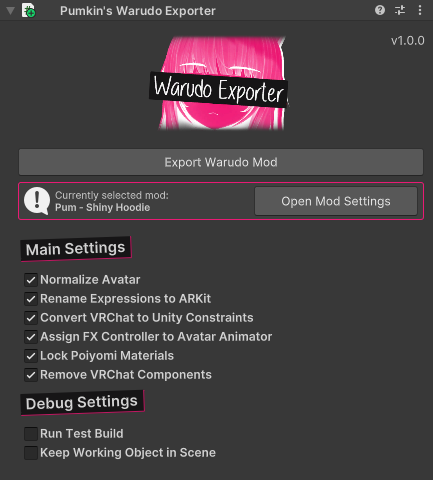
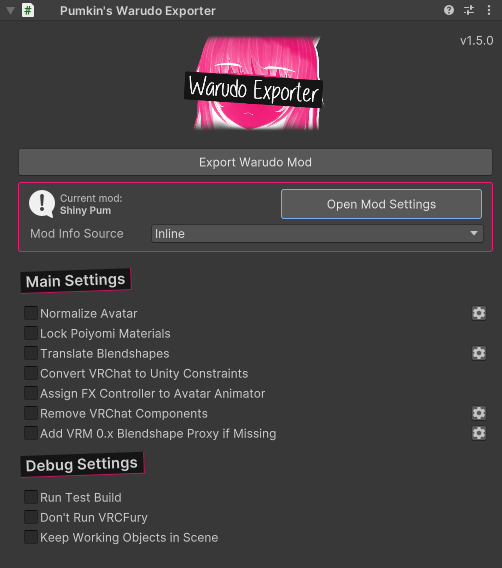
updated docs and new update notes

diff --git a/docs/warudo-exporter/features/translate-blendshapes.md b/docs/warudo-exporter/features/translate-blendshapes.md
@@ -4,11 +4,11 @@ description: "This feature translates, merges and splits blendshapes."
 sidebar_position: 3
 ---
 
-This feature is used to translates blendshapes on the avatar's meshes. This allows the exporter to rename, combine and split blendshapes on a mesh in order to make them work with blendshape names Warudo expects, for example [ARKit Blendshapes](https://arkit-face-blendshapes.com/) for face tracking.
+This feature is used to translates blendshapes on the avatar's meshes. This allows the exporter to rename, combine and split blendshapes on a mesh in order to make them work with the blendshape names Warudo expects, for example [ARKit Blendshapes](https://arkit-face-blendshapes.com/) for face tracking.
 
 This feature comes with the following option(s):
 
-## Preset
+### Preset
 This allows us to select a translation preset object for our avatar. Click the circle on the right to bring up the presets window and select one.
 
 ![translation preset options](img/translation-preset-options.png)
@@ -27,10 +27,10 @@ Next let's look at what everything does.
 
 ![translation preset ui](img/translation-preset-example.png)
 
-- `Target Blendshape`. This stores the name of the resulting blendshape.
-- `Source Blendshape(s)`. This is a list that stores the names of blendshapes to be merged into a new blendshape with the name from the `Target Blendshape` field.
-- `Weight`. This field serves as a "multiplier" for the blendshape data of each `Source Blendshape`. If the weight is 0, the source blendshape gets ignored. If the weight is 1, the source blendshape gets merged as is. If the weight is 2, the source blendshape is doubled in movement. If it's -1, it gets inverted and so on.
-- `Side`. This option allows us to split the `Source Blendshape` down the center of the bounds of the mesh. If `Left` is selected, only the vertices to the left of the center of the mesh will be included, if `Right` is selected only the right ones. If `Both` is selected, well.. the whole blendshape gets copied.
+- `Target Blendshape`: This stores the name of the resulting blendshape.
+- `Source Blendshape(s)`: This is a list that stores the names of blendshapes to be merged into a new blendshape with the name from the `Target Blendshape` field.
+- `Weight`: This field serves as a "multiplier" for the blendshape data of each `Source Blendshape`. If the weight is 0, the source blendshape gets ignored. If the weight is 1, the source blendshape gets merged as is, if the weight is 2, the source blendshape is doubled in movement, if it's -1, it gets inverted and so on.
+- `Side`: This option allows us to split the `Source Blendshape` down the center of the bounds of the mesh. If `Left` is selected, only the vertices to the left of the center of the mesh will be included, if `Right` is selected only the right ones. If `Both` is selected, well.. the whole blendshape gets copied.
 
 ## Build-in Presets
 Currently, there's two build in presets:
@@ -39,6 +39,6 @@ Currently, there's two build in presets:
 Use this preset if your avatar comes with a [EchoTheNeko](https://echotheneko.booth.pm/) face tracking prefab.
 
 ### Universal Expressions to ARKit
-Use this preset if your avatar comes with [Jerry's Face Tracking](https://adjerry91.booth.pm/) or [Fermata Face Tracking](https://fermat.booth.pm/)
+Use this preset if your avatar comes with [Jerry's Face Tracking](https://adjerry91.booth.pm/), [Fermata Face Tracking](https://fermat.booth.pm/) or [Hash's Face Tracking](https://hashedits.booth.pm/)
 
 Would you like to see more in here or suggest improvements? Let me know!

diff --git a/docs/warudo-exporter/usage.md b/docs/warudo-exporter/usage.md
@@ -13,14 +13,46 @@ To use this, select your avatar in the scene, and add the `Pumkin's Warudo Expor
 
 ## Setting up a Mod
 
-Before we can export, we need to [setup a new mod](https://docs.warudo.app/docs/modding/creating-your-first-mod). This can be done in either one of these menus:
+Before we can export, we need to configure our mod. There are 3 ways to do it, which can be changed by using the `Mod Info Source` dropdown.
+- `Inline` (default): This lets you store the mod settings inside the exporter component itself.
+- `From Asset`: This lets you store the mod info in an asset that can be reused by multiple avatars.
+- `From Warudo SDK`: This is the old way of setting up a mod, using the Warudo Sdk menus.
+
+Regardless of what info source you have selected, click the `Open Mod Settings` button to change the settings.
+
+<div className="border-radius-4px">
+![Open mod settings](./img/info/warudo-exporter-open-mod-settings.png)
+</div>
+
+### Mod Info Source: Inline
+By default, `Mod Info Source` is set to `Inline`, so this will expand our `Inline` mod settings. Fill in the information for your mod and you're ready to export.
+
+If you would like to reuse these mod settings, you can click the `Save Inline  Mod Info to Asset` button to create a new mod info asset and assign it to the current avatar.
+
+:::note
+
+Only the `Name` field is required to export a mod, but it's also recommended to fill in the `Export Directory`.
+
+:::
+
+### Mod Info Source: From Asset
+This is the same as inline except you get to choose what asset to pull the info from. Editing the info here will edit the asset so the changes will reflect on all avatars using it.
+
+### Mod Info Source: From Warudo Sdk
+This is the old way of setting up a mod. I don't recommend using it but you can.
+Before you can export, you need to [setup a new mod](https://docs.warudo.app/docs/modding/creating-your-first-mod). This can be done in either one of these menus:
  - `Warudo` > `New Mod`
  - `Warudo` > `Mod Settings` and clicking the `+` button.
 
- To make this easier, a button to open the `Mod Settings` menu is provided to you directly in the Exporter window.
+
+:::info
+
+To be able to export, fill in the `Name`, `Version` and `Mod Asset Directory`. The mod asset directory needs to be an empty folder somewhere in your assets and it needs to exist.
+
+:::
 
 <div className="border-radius-4px">
-![Add Warudo Exporter Component to Avatar](./img/info/warudo-exporter-open-mod-settings.png)
+![Open mod settings for warudo sdk](./img/info/open-mod-settings-warudo-sdk.png)
 </div>
 
 Fill in your mod info and pick a folder for your mod files. This needs to be somewhere in your `Assets`.

diff --git a/docs/warudo-exporter/download-installation.md b/docs/warudo-exporter/download-installation.md
@@ -1,6 +1,6 @@
 ---
 description: Where to get it and how to install it.
-sidebar_position: 3
+sidebar_position: 2
 ---
 
 # Download & Installation
@@ -17,7 +17,7 @@ I'll add more info here later.
 
 While this tool is meant to go into a VRChat project it is **strongly** recommended to import it into a **copy of your project**.
 
-Things can, and probably will break. Don't risk it, have a **backup**!
+Things can, and probably will, break. Don't risk it, have a **backup**!
 
 :::
 
@@ -42,3 +42,34 @@ Once imported, the Install Wizard should pop up automatically. If it doesn't, yo
 </div>
 
 Follow the steps within it to get everything set up.
+
+<div className="center-image border-radius-4px">
+![Installer Welcome](./img/info/installer/required-packages.png)
+</div>
+
+#### Required Packages Step
+
+<div className="center-image border-radius-4px">
+![vrc-get needs installing](./img/info/installer/vrc-get.png)
+</div>
+
+During the required packages step, you will be asked to download [vrc-get](https://github.com/vrc-get/vrc-get/), an open source community developed command line client of VRChat Package Manager. It's used to download and import required packages.
+
+In most cases you can just click on `Start Download` to automatically download and place vrc-get into the correct folder, but if for whatever reason this fails, it can also be done manually.
+Putting your mouse over the (?) icon will let you know where the file can be downloaded from and where it needs to be placed.
+
+The download is always going to come from the [official releases](https://github.com/vrc-get/vrc-get/releases/latest), and will always need to be placed in `<your project>/Library/com.anatawa12.vrc-get-resolver`.
+
+After this, vrc-get can run and download and install all the required packages.
+
+<div className="center-image border-radius-4px">
+![Required packages](./img/info/installer/required-packages.png)
+</div>
+
+:::warning
+Currently, vrc-get does not update packages for you. So if you have an outdated package, usually Non Destructive Modular Framework (NDMF), this installer step will succeed but the tool will still not work. For now, if you already have packages such as NDMF, make sure they are up to date in VRChat Creator Companion.
+
+<div className="center-image border-radius-4px">
+![NDMF in vrchat creator companion](./img/info/installer/ndmf-vcc.png)
+</div>
+:::

diff --git a/docs/warudo-exporter/features/add-vrm-blendshape-proxy.md b/docs/warudo-exporter/features/add-vrm-blendshape-proxy.md
@@ -35,7 +35,7 @@ If a VRM Blendshape Proxy gets added, a bunch of lipsync related blendshapes cli
 	</tr>
 	<tr>
 		<td>Blink_L</td>
-		<td>"Blink_L", "Eyes_Wink_L", "eye_brink_1_L", "eye_close_L", "eye_joy_L", "ウィンク", "eye_blink_L"</td>
+		<td>Blink_L, Eyes_Wink_L, eye_brink_1_L, eye_close_L, eye_joy_L, ウィンク, eye_blink_L</td>
 	</tr>
 	<tr>
 		<td>Blink_R</td>
@@ -43,14 +43,15 @@ If a VRM Blendshape Proxy gets added, a bunch of lipsync related blendshapes cli
 	</tr>
 </table>
 
-There is currently no way to edit what Blendshapes this feature tries to pick up aside from editing the script directly.
-If you would like to be able to edit what blendshapes are used, let me know!
+:::note
+There is currently no way to edit what Blendshapes this feature tries to pick up aside from editing the script directly. This will be customizable in the future.
+:::
 
 This feature comes with the following option(s):
 
 ## Blendshape Proxy Face Mesh
 This field picks the mesh the VRM Blendshape Proxy will search for Blendshapes on, and later use in Warudo.
 
-If this field is empty, it will try to automatically pick a mesh based on the VRC Avatar Descriptor's Face Mesh.
+If this field is empty, it will try to automatically pick a mesh based on the VRC Avatar Descriptor's assigned `Face Mesh`.
 
-If this field is still empty when exporting, it'll try to find a mesh by comparing blendshape names to the ones we're looking for. If more than half are found, that mesh is selected.
+If this field is still empty when exporting, it'll try to find a mesh by comparing blendshape names to the ones we're looking for. If more than half are found, that mesh gets selected.

diff --git a/docs/warudo-exporter/features/normalize-avatar.md b/docs/warudo-exporter/features/normalize-avatar.md
@@ -10,5 +10,5 @@ Key difference from Hai's exporter is that since this runs as a NDMF pass, your 
 
 This feature comes with the following option(s):
 
-## Reset Pose to Humanoid Rig Config Pose:
-This option resets avatar's pose in the scene to the pose it has in the humanoid rig config, which should be a T Pose. A T Pose in the scene is required for normalizing to work correctly, otherwise the default pose in Warudo might look wrong. An A pose, for example, will lead to the arms pointing too far behind the avatar's back.
+## Reset Pose to Humanoid Rig Config Pose
+This option resets your avatar's pose in the scene to the pose it has in the humanoid rig config, which should be a T Pose. A T Pose is required for normalizing to work correctly, otherwise the default pose in Warudo might look wrong. An A pose, for example, will lead to the arms pointing too far behind the avatar's back. This option fixes these issues for you.

diff --git a/blog/2025-10-14-warudo-exporter-1-5-0.md b/blog/2025-10-14-warudo-exporter-1-5-0.md
@@ -1,0 +1,17 @@
+---
+slug: warudo-exporter-1-5-0
+title: Warudo Exporter v1.5.0
+authors: [pumkin]
+tags: [warudo, vrchat, unity, tool]
+---
+
+- ❗ **Workflow change!** Mod settings now get defined inside the exporter component. This lets you skip having to go through Warudo sdk menus or create folders. It just works™
+You can also save settings to an asset and reuse it among different avatars!
+If you would like to use the old way of doing this (for whatever reason) you can select the `Mod Info Source` to `FromWarudoSdk`.
+- Fixed all scenes getting closed when exporting an avatar.
+- Fixed a bunch of random errors that have been reported recently.
+
+### Known Issues:
+- Shaders don't export correctly, with shaders like `Standard` missing stuff like emissions and normal maps, as well as not shadows. I'm looking into a potential workaround.
+
+<!-- truncate -->

diff --git a/docs/warudo-exporter/features/assign-fx-to-animator.md b/docs/warudo-exporter/features/assign-fx-to-animator.md
@@ -4,7 +4,7 @@ description: "This feature assigns your VRChat FX controller to the main Animato
 sidebar_position: 5
 ---
 
-This assigns your VRChat FX controller to the controller slot of your Avatar's Animator component. This allows your animations to still work the same way they would in VRChat.
+This assigns your VRChat FX controller to the controller slot of your Avatar's Animator component. This allows your animations to still work the same way they would in VRChat, when changing animator parameters using Warudo blueprints.
 
 :::warning
 Having an animator control certain things like face blendshapes or mesh toggles prevents Warudo from being able to control those. Only animate things you don't want to change in Warudo.

diff --git a/docs/warudo-exporter/features/lock-poiyomi-materials.md b/docs/warudo-exporter/features/lock-poiyomi-materials.md
@@ -4,4 +4,4 @@ description: "This locks all Poiyomi Materials allowing them to be exported."
 sidebar_position: 2
 ---
 
-This feature [locks](https://www.poiyomi.com/general/locking) all [Poiyomi Shader](https://www.poiyomi.com/) materials on the avatar before exporting. Poiyomi Shader materials don't get included in the build unless locked for technical reasons explained in it's documentation.
+This feature [locks](https://www.poiyomi.com/general/locking) all [Poiyomi Shader](https://www.poiyomi.com/) materials on the avatar before exporting. Without this, unless manually locked, Poiyomi Shader materials don't get included in the build for technical reasons explained in it's documentation.

diff --git a/docs/warudo-exporter/intro.md b/docs/warudo-exporter/intro.md
@@ -15,7 +15,7 @@ Normally, this is not allowed as Warudo uses Unity 2021, but the tool attempts t
 
 :::note
 
-Please note that the tool is still in it's early stages, and while functional, things might not work for everyone from the start. Bare with me while I iron out the issues, and join the Discord if you want to give feedback.
+Please note that the tool is still in its early stages, and while functional, things might not work for everyone from the start. Bare with me while I iron out the issues, and join the Discord if you want to give feedback.
 
 :::
 

diff --git a/docs/warudo-exporter/features/debug.md b/docs/warudo-exporter/features/debug.md
@@ -12,6 +12,8 @@ This allows you build your avatar in the scene without exporting it to Warudo. U
 
 This option is equivalent to Hai's Denormalized Exporter's `Do not export or build`
 
+This also makes NDMF export the built test avatar files to the `Assets/ZZZ_GeneratedAssets` folder in your assets.
+
 ### Don't Run VRCFury
 
 This allows you to skip running all VRCFury components.
